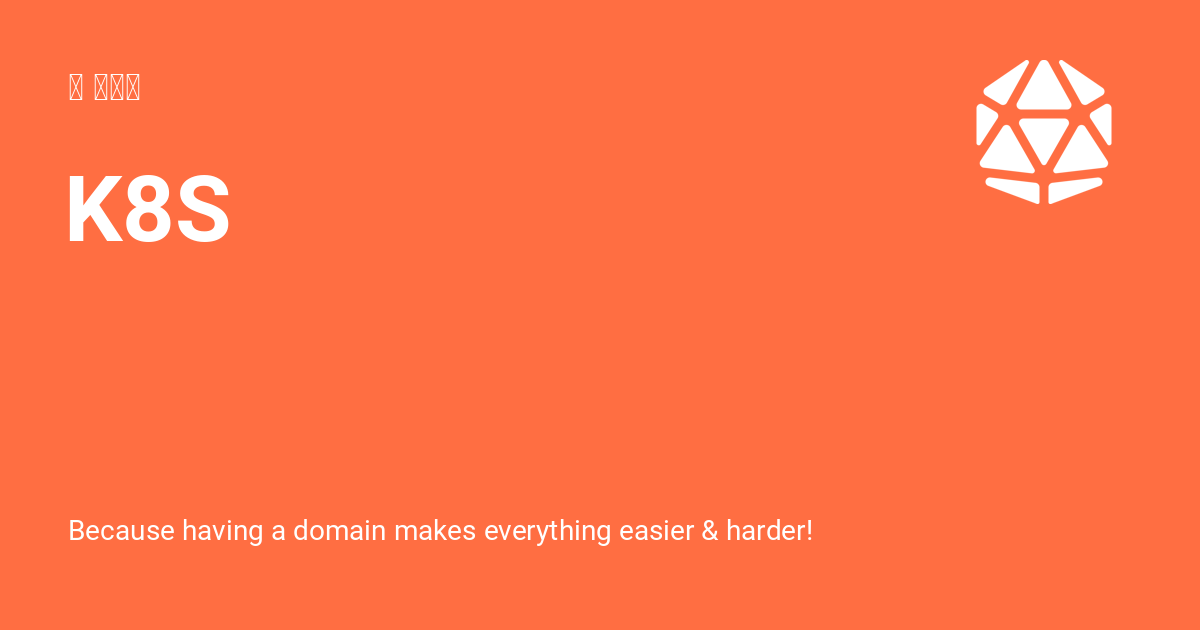
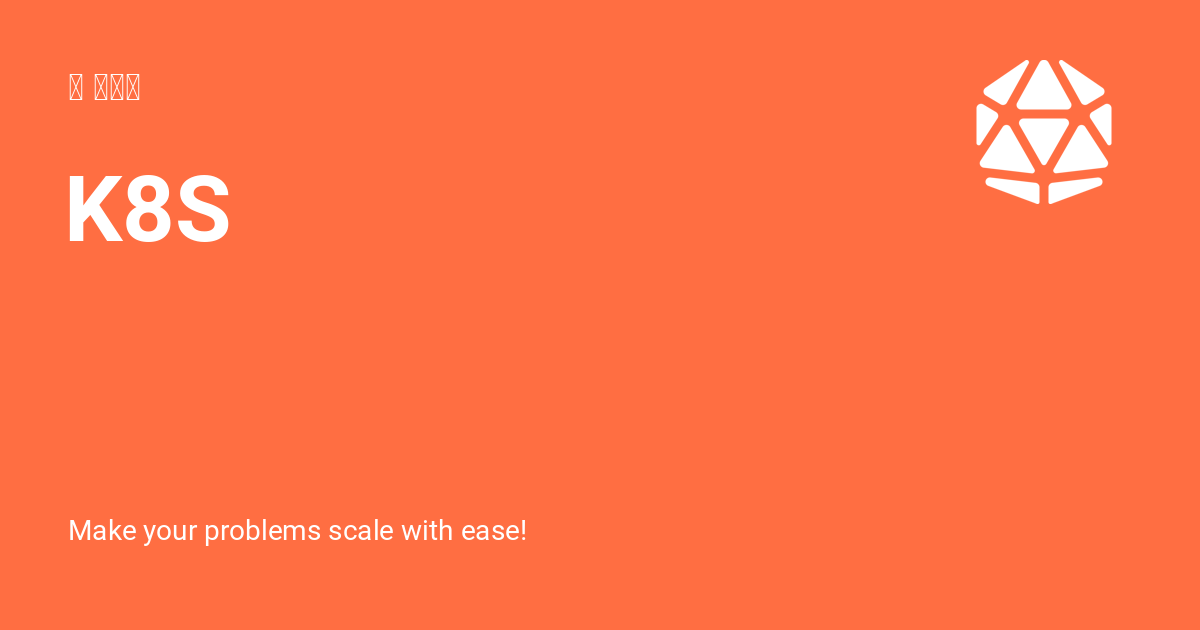
Deployed d713ef8 with MkDocs version: 1.5.3

Changed region(s): [[0.0617, 0.8143, 0.6783, 0.8746]]

diff --git a/how-to/Kubernetes/index.html b/how-to/Kubernetes/index.html
@@ -1,4 +1,4 @@
-<!doctype html><html lang=en class=no-js> <head><meta charset=utf-8><meta name=viewport content="width=device-width,initial-scale=1"><meta name=description content="Because having a domain makes everything easier & harder!"><meta name=author content="Hugh Smalley"><link href=https://hsmalley.github.io/how-to/Kubernetes/ rel=canonical><link href=../JSON/ rel=prev><link href=../LXC%20Image%20Creation/ rel=next><link rel=icon href=../../assets/images/favicon.png><meta name=generator content="mkdocs-1.5.3, mkdocs-material-9.4.10"><title>K8S - 🤓 🐐💨🎂</title><link rel=stylesheet href=../../assets/stylesheets/main.fad675c6.min.css><link rel=stylesheet href=../../assets/stylesheets/palette.356b1318.min.css><link rel=preconnect href=https://fonts.gstatic.com crossorigin><link rel=stylesheet href="https://fonts.googleapis.com/css?family=Roboto:300,300i,400,400i,700,700i%7CRoboto+Mono:400,400i,700,700i&display=fallback"><style>:root{--md-text-font:"Roboto";--md-code-font:"Roboto Mono"}</style><script>__md_scope=new URL("../..",location),__md_hash=e=>[...e].reduce((e,_)=>(e<<5)-e+_.charCodeAt(0),0),__md_get=(e,_=localStorage,t=__md_scope)=>JSON.parse(_.getItem(t.pathname+"."+e)),__md_set=(e,_,t=localStorage,a=__md_scope)=>{try{t.setItem(a.pathname+"."+e,JSON.stringify(_))}catch(e){}}</script><meta property=og:type content=website><meta property=og:title content="K8S - 🤓 🐐💨🎂"><meta property=og:description content="Because having a domain makes everything easier & harder!"><meta property=og:image content=https://hsmalley.github.io/assets/images/social/how-to/Kubernetes.png><meta property=og:image:type content=image/png><meta property=og:image:width content=1200><meta property=og:image:height content=630><meta content=https://hsmalley.github.io/how-to/Kubernetes/ property=og:url><meta name=twitter:card content=summary_large_image><meta name=twitter:title content="K8S - 🤓 🐐💨🎂"><meta name=twitter:description content="Because having a domain makes everything easier & harder!"><meta name=twitter:image content=https://hsmalley.github.io/assets/images/social/how-to/Kubernetes.png><link href=../../assets/stylesheets/glightbox.min.css rel=stylesheet><style>
+<!doctype html><html lang=en class=no-js> <head><meta charset=utf-8><meta name=viewport content="width=device-width,initial-scale=1"><meta name=description content="Make your problems scale with ease!"><meta name=author content="Hugh Smalley"><link href=https://hsmalley.github.io/how-to/Kubernetes/ rel=canonical><link href=../JSON/ rel=prev><link href=../LXC%20Image%20Creation/ rel=next><link rel=icon href=../../assets/images/favicon.png><meta name=generator content="mkdocs-1.5.3, mkdocs-material-9.4.10"><title>K8S - 🤓 🐐💨🎂</title><link rel=stylesheet href=../../assets/stylesheets/main.fad675c6.min.css><link rel=stylesheet href=../../assets/stylesheets/palette.356b1318.min.css><link rel=preconnect href=https://fonts.gstatic.com crossorigin><link rel=stylesheet href="https://fonts.googleapis.com/css?family=Roboto:300,300i,400,400i,700,700i%7CRoboto+Mono:400,400i,700,700i&display=fallback"><style>:root{--md-text-font:"Roboto";--md-code-font:"Roboto Mono"}</style><script>__md_scope=new URL("../..",location),__md_hash=e=>[...e].reduce((e,_)=>(e<<5)-e+_.charCodeAt(0),0),__md_get=(e,_=localStorage,t=__md_scope)=>JSON.parse(_.getItem(t.pathname+"."+e)),__md_set=(e,_,t=localStorage,a=__md_scope)=>{try{t.setItem(a.pathname+"."+e,JSON.stringify(_))}catch(e){}}</script><meta property=og:type content=website><meta property=og:title content="K8S - 🤓 🐐💨🎂"><meta property=og:description content="Make your problems scale with ease!"><meta property=og:image content=https://hsmalley.github.io/assets/images/social/how-to/Kubernetes.png><meta property=og:image:type content=image/png><meta property=og:image:width content=1200><meta property=og:image:height content=630><meta content=https://hsmalley.github.io/how-to/Kubernetes/ property=og:url><meta name=twitter:card content=summary_large_image><meta name=twitter:title content="K8S - 🤓 🐐💨🎂"><meta name=twitter:description content="Make your problems scale with ease!"><meta name=twitter:image content=https://hsmalley.github.io/assets/images/social/how-to/Kubernetes.png><link href=../../assets/stylesheets/glightbox.min.css rel=stylesheet><style>
         html.glightbox-open { overflow: initial; height: 100%; }
         .gslide-title { margin-top: 0px; user-select: text; }
         .gslide-desc { color: #666; user-select: text; }

diff --git a/index.html b/index.html
@@ -230,7 +230,7 @@
     </div>
     
     <p class="blog-post-description">
-        Because having a domain makes everything easier &amp; harder!
+        Make your problems scale with ease!
     </p>
     
     <a href="https://hsmalley.github.io/how-to/Kubernetes/">
